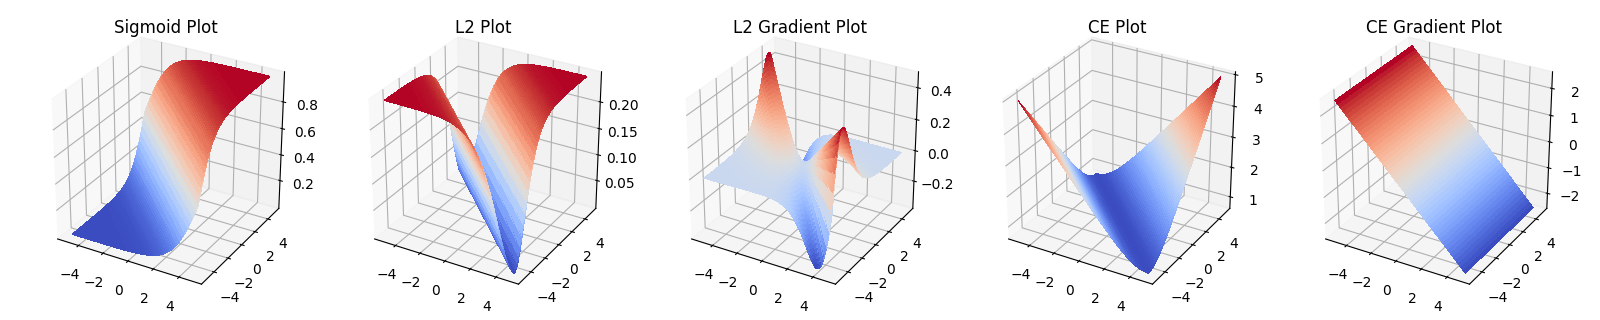
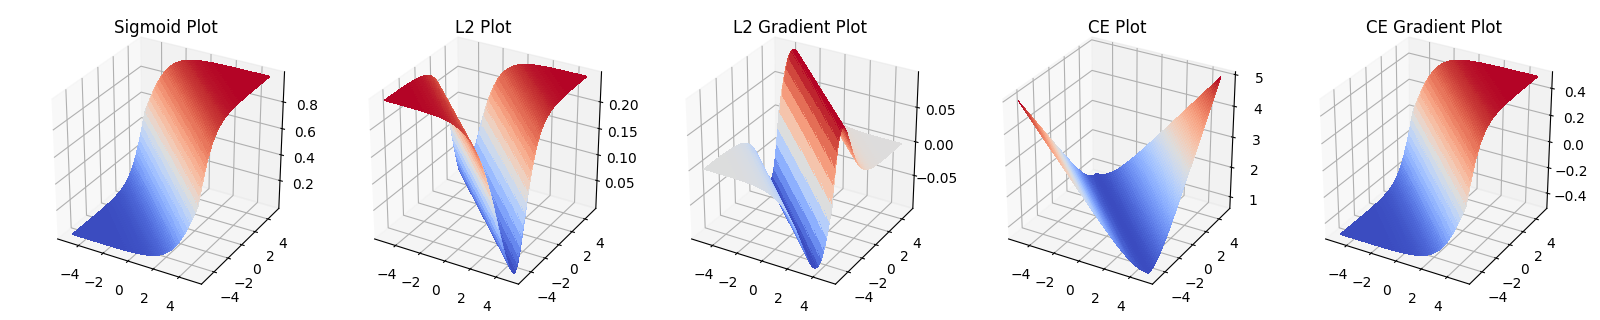
update: q1

diff --git a/q1.py b/q1.py
@@ -17,13 +17,15 @@ def plot():
 
 	Ydiff = Ypred - Yexp
 
-	L2_Gradient = 2.0 * W * Ydiff * (1.0 - Ypred) * Ypred
+	L2_Gradient = 2.0 * Ydiff * (1.0 - Ypred) * Ypred
 
 	L2_Loss = Ydiff * Ydiff
 	CE_Loss = -1.0 * (Yexp * np.log(Ypred) + (1.0 - Yexp) * np.log(1.0 - Ypred))
 
 	# CE_Gradient = W * (Yexp * (Ypred - 1) + Ypred * (Yexp - 1))
-	CE_Gradient = ((-1.0 * Yexp / Ypred) + ((Yexp - 1) / (1 - Ypred))) * W * (1 - Ypred) * Ypred
+	# CE_Gradient = ((-1.0 * Yexp / Ypred) + ((Yexp - 1) / (1 - Ypred))) * W * (1 - Ypred) * Ypred
+	# CE_Gradient = (2.0 * Yexp - 1.0) * Ypred - Yexp
+	CE_Gradient = Ypred - Yexp
 
 	fig = plt.figure(figsize=plt.figaspect(0.2))
 

diff --git a/q2.py b/q2.py
@@ -1,0 +1,19 @@
+import numpy as np
+
+from mpl_toolkits.mplot3d import Axes3D
+import matplotlib.pyplot as plt
+from matplotlib import cm
+
+def solve():
+	images = np.load('datasets/random/random_imgs.npy')
+	labels = np.load('datasets/random/random_labs.npy')
+	labels = np.reshape(labels,(np.shape(labels)[0], 1))
+
+	input_images = np.reshape(images, (np.shape(images)[0], np.shape(images)[1] * np.shape(images)[2]))
+	num_input_images = np.shape(input_images)[0]
+
+	print(labels.shape)
+	print(input_images.shape)
+	print(num_input_images)
+
+solve()
